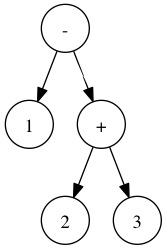
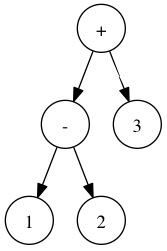
Fix image

diff --git a/src/ast_parser.py b/src/ast_parser.py
@@ -1,3 +1,5 @@
+# dot -T jpg ast_parser.dot > ast_parser.jpg
+
 handle = 0
 
 def createNode(label):
@@ -21,8 +23,8 @@ def simpleAST():
     string = minusNode[1] + plusNode[1] + oneNode[1]
     string = string + twoNode[1] + threeNode[1]
     string = string + createChild(minusNode[0], oneNode[0])
-    string = string + createChild(minusNode[0], plusNode[0])
-    string = string + createChild(plusNode[0], twoNode[0])
+    string = string + createChild(minusNode[0], twoNode[0])
+    string = string + createChild(plusNode[0], minusNode[0])
     string = string + createChild(plusNode[0], threeNode[0])
     return string
 
